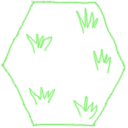
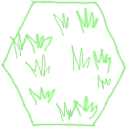
Add trail images

diff --git a/app/models/building.rb b/app/models/building.rb
@@ -37,7 +37,13 @@ Building = Data.define(:player, :id, :loc, :hp) do
   end
 
   def background_img
-    path = "backgrounds/#{id}.png"
-    File.exist?("app/assets/images/#{path}") ? path : nil
+    # Dirty hack
+    if player == :world
+      return "backgrounds/#{id}.png"
+    end
+
+    ["backgrounds/#{player.id}_#{id}.png", "backgrounds/#{id}.png"].find {|path|
+      File.exist?("app/assets/images/#{path}")
+    }
   end
 end
